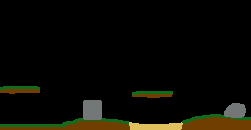
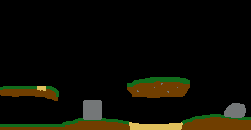
merged existing assets and added more functionality

Changed region(s): [[0.502, 0.5846, 0.7809, 0.7692], [0.0, 0.6462, 0.251, 0.7692]]

diff --git a/index.js b/index.js
@@ -8,23 +8,32 @@ class BearGame extends Phaser.Scene {
     currentPlayer;
     nextPlayerKey;
 
+    // used to initially position weapons and their facing direction relative to the player
+    isPlayerFacingLeft;
+
+    swapWeaponKey;
+    weaponListIndex;
+    weaponList;
+    currentWeapon;
+    currentWeaponKey;
+
     movementKeys;
     indicatorLine;
-    worldPointer;
     graphics;
 
-    /* Runs only once. Used to load our assets that we need for the game */
     preload() {
         this.load.image('background', 'assets/background.jpg');
-        // this.load.image('platform', 'assets/platform.png');
         this.load.image('grass-block', 'assets/terrain/grass-block.png');
         this.load.image('dirt-block', 'assets/terrain/dirt-block.png');
         this.load.image('stone-block', 'assets/terrain/stone-block.png');
         this.load.image('sand-block', 'assets/terrain/sand-block.png');
-        this.load.image('bear1', 'assets/bear.png');
-        this.load.image('projectile', 'assets/grenade.png');
 
         this.load.image('terrain-map', 'assets/terrain-map.png');
+
+        this.load.image('bear', 'assets/bear.png');
+        this.load.image('bobber-bomb', 'assets/bobber-bomb.png');
+        this.load.image('fish-gun', 'assets/fish-gun.png');
+        this.load.image('spear', 'assets/spear.png');
 
     }
 
@@ -40,8 +49,13 @@ class BearGame extends Phaser.Scene {
         this.createIndicatorLineResources();
         this.createMouseListeners();
 
+        this.swapWeaponKey = this.input.keyboard.addKey('P');
         this.nextPlayerKey = this.input.keyboard.addKey('N');
         this.movementKeys = this.input.keyboard.addKeys('W,UP,D,RIGHT,A,LEFT');
+
+        this.weaponListIndex = 0;
+        // null means you're using your BEAR hands, lol
+        this.weaponList = [null, 'bobber-bomb', 'fish-gun'];
         
         this.cameras.main.setBounds(0, 0, 1252, 646);
         this.cameras.main.startFollow(this.currentPlayer, true);
@@ -52,10 +66,15 @@ class BearGame extends Phaser.Scene {
         // console.log(`FPS: ${Math.round(game.loop.actualFps)}`);
         this.checkKeyboardInput();
         this.checkMouseInput();
+
+        // move weapon to player
+        if (this.currentWeapon) {
+            this.currentWeapon.x = this.currentPlayer.x;
+            this.currentWeapon.y = this.currentPlayer.y;
+        }
     }
 
     loadTerrainMap(terrainMapKey, terrainPixelScale, platformScale) {
-
         // load the terrain map texture 
         const texture = game.textures.get(terrainMapKey);
         const img = texture.getSourceImage();
@@ -63,13 +82,13 @@ class BearGame extends Phaser.Scene {
         const canvas = this.textures.createCanvas(null, img.width, img.height);
         canvas.draw(0, 0, img);
         
-        var set = new Set();
+        // var set = new Set();
         this.platforms = this.physics.add.staticGroup();
         for (var x = 0; x < img.width; ++x) {
             for (var y = 0; y < img.height; ++y) {
                 const pixel = canvas.getPixel(x, y);
 
-                set.add(pixel.color)
+                // set.add(pixel.color)
                 
                 var platform;
                 switch (pixel.color) {
@@ -94,7 +113,7 @@ class BearGame extends Phaser.Scene {
             }
         }
 
-        console.log(set);
+        // console.log(set);
 
         // If we applied any scaling, this will update the bodies
         this.platforms.getChildren().forEach((body) => {
@@ -111,59 +130,11 @@ class BearGame extends Phaser.Scene {
         this.physics.world.setBounds(0, 0, 1252, 646);
     }
 
-    createPlatforms() {
-        this.platforms = this.physics.add.staticGroup();
-        this.platforms.createMultiple({
-            key: 'dirt-block',
-            frameQuantity: 300,
-            setXY: { x: 0, y: 640, stepX: 5 },
-            setScale: { x: 0.025, y: 0.025 }
-            // key: 'platform',
-            // frameQuantity: 8,
-            // setXY: { x: 0, y: 645, stepX: 187 },
-            // setScale: { x: 1.2, y: 1.2 }
-        });
-
-        this.platforms.createMultiple({
-            key: 'dirt-block',
-            frameQuantity: 80,
-            setXY: { x: 520, y: 635, stepX: 5 },
-            setScale: { x: 0.025, y: 0.025 }
-            // setScale: { x: 0.9, y: 0.9 }
-        });
-
-        this.platforms.createMultiple({
-            key: 'dirt-block',
-            frameQuantity: 60,
-            setXY: { x: 540, y: 630, stepX: 5 },
-            setScale: { x: 0.025, y: 0.025 }
-            // setScale: { x: 0.9, y: 0.9 }
-        });
-
-        // this.platforms.createMultiple({
-        //     key: 'platform',
-        //     frameQuantity: 3,
-        //     setXY: { x: 300, y: 330, stepX: 330 },
-        //     // setScale: { x: 0.9, y: 0.9 }
-        // });
-
-        // this.platforms.createMultiple({
-        //     key: 'platform',
-        //     frameQuantity: 2,
-        //     setXY: { x: 500, y: 180, stepX: 330 },
-        //     // setScale: { x: 0.9, y: 0.9 }
-        // });
-
-        this.platforms.getChildren().forEach((body) => {
-            body.refreshBody();
-        });
-    }
-
     createPlayers() {
         this.players = [];
 
-        const player1 = this.physics.add.sprite(450, 400, 'bear1')
-        .setScale(0.15)
+        const player1 = this.physics.add.sprite(450, 400, 'bear')
+        .setScale(0.18)
         .refreshBody();
         player1.setBounce(0);
         player1.setCollideWorldBounds(true);
@@ -188,36 +159,72 @@ class BearGame extends Phaser.Scene {
 
         this.input.on('pointerup', pointer => {
             if (pointer.leftButtonReleased()) {
-                const throwPower = 2;
-                let projectile = this.physics.add.sprite(this.currentPlayer.x, this.currentPlayer.y, 'projectile')
-                .setScale(0.06)
-                .setVelocity(
-                    (this.input.activePointer.worldX - this.currentPlayer.x) * throwPower, 
-                    (this.input.activePointer.worldY - this.currentPlayer.y) * throwPower
-                )
-                .setMaxVelocity(400, 550)
-                .setDrag(60);
+                if (this.currentWeaponKey == 'bobber-bomb') {
+                    const throwPower = 1.5;
+                    let projectile = this.physics.add.sprite(this.currentPlayer.x, this.currentPlayer.y, 'bobber-bomb')
+                    .setScale(0.25)
+                    .setVelocity(
+                        (this.input.activePointer.worldX - this.currentPlayer.x) * throwPower, 
+                        (this.input.activePointer.worldY - this.currentPlayer.y) * throwPower
+                    )
+                    .setMaxVelocity(400, 550)
+                    .setDrag(60);
+    
+                    /* Will disable gravity entirely for the projectiles. More for bullet-style projectiles */
+                    // projectile.body.setAllowGravity(false);
+                    
+                    this.physics.add.collider(projectile, this.platforms, this.terrainExplosionCallback, this.terrainProcessCallback, this);
+                    // this.physics.add.collider(projectile, this.players);
+    
+                    const timeout_millis = 4000;
+                    setTimeout(() => {
+                        this.deleteProjectile(projectile);
+                    }, timeout_millis);
 
-                /* Will disable gravity entirely for the projectiles. More for bullet-style projectiles */
-                // projectile.body.setAllowGravity(false);
-                
-                this.physics.add.collider(projectile, this.platforms, this.terrainExplosionCallback, this.terrainProcessCallback, this);
-                // this.physics.add.collider(projectile, this.players);
-
-                const timeout_millis = 4000;
-                setTimeout(() => {
-                    this.deleteProjectile(projectile);
-                }, timeout_millis);
+                    // This is to give the illusion that we threw the bobber bomb
+                    this.currentWeapon.destroy();
+                    this.currentWeapon = null;
+                    this.currentWeaponKey = null;
+                } else if (this.currentWeaponKey == 'fish-gun') {
+                    const throwPower = 2;
+                    var bombSpawnX;
+                    var bombSpawnY;
+                    if (this.isPlayerFacingLeft) {
+                        bombSpawnX = this.currentPlayer.x - 30;
+                    } else {
+                        bombSpawnX = this.currentPlayer.x + 30;
+                    }
+                    let projectile = this.physics.add.sprite(bombSpawnX, this.currentPlayer.y, 'bobber-bomb')
+                    .setScale(0.25)
+                    .setVelocity(
+                        (this.input.activePointer.worldX - this.currentPlayer.x) * throwPower, 
+                        (this.input.activePointer.worldY - this.currentPlayer.y) * throwPower
+                    )
+                    .setMaxVelocity(400, 550)
+                    .setDrag(60);
+    
+                    /* Will disable gravity entirely for the projectiles. More for bullet-style projectiles */
+                    // projectile.body.setAllowGravity(false);
+                    
+                    this.physics.add.collider(projectile, this.platforms, this.terrainExplosionCallback, this.terrainProcessCallback, this);
+                    // this.physics.add.collider(projectile, this.players);
+    
+                    const timeout_millis = 4000;
+                    setTimeout(() => {
+                        this.deleteProjectile(projectile);
+                    }, timeout_millis);
+                }
             }
         });
     }
 
-    destroyCallback(object1, object2) {
+    destroyTerrainCallback(object1, object2) {
         object2.destroy();
     }
 
     terrainExplosionCallback(object1, object2) {
-        var invis = this.physics.add.sprite(object1.x - 34, object1.y - 44);
+        // the offset is to center the explosion on the sprite
+        var invis = this.physics.add.sprite(object1.x - 40, object1.y - 40);
         invis.setCircle(60);
         invis.setImmovable(true);
         invis.body.setAllowGravity(false);
@@ -225,7 +232,7 @@ class BearGame extends Phaser.Scene {
         // destroy grenade
         object1.destroy();
 
-        this.physics.add.collider(invis, this.platforms, this.destroyCallback, this.terrainProcessCallback, this);
+        this.physics.add.collider(invis, this.platforms, this.destroyTerrainCallback, this.terrainProcessCallback, this);
         
         /* Remove the explosion radius after 2 seconds. Should be enough time to check
         for all explosion collisions before we remove it from the scene. This is because I
@@ -248,14 +255,64 @@ class BearGame extends Phaser.Scene {
     checkKeyboardInput() {
         if (this.movementKeys.LEFT.isDown || this.movementKeys.A.isDown) {
             this.currentPlayer.setVelocityX(-160);
+            this.currentPlayer.flipX = true;
+            this.isPlayerFacingLeft = true;
+
+            if (this.currentWeaponKey == 'fish-gun')
+                this.currentWeapon.flipX = false;
+            
         } else if (this.movementKeys.RIGHT.isDown || this.movementKeys.D.isDown) {
             this.currentPlayer.setVelocityX(160);
+            this.currentPlayer.flipX = false;
+            this.isPlayerFacingLeft = false;
+
+            if (this.currentWeaponKey == 'fish-gun')
+                this.currentWeapon.flipX = true;
         } else {
             this.currentPlayer.setVelocityX(0);
         }
         
         if ((this.movementKeys.UP.isDown || this.movementKeys.W.isDown) && this.currentPlayer.body.touching.down) {
             this.currentPlayer.setVelocityY(-250);
+        }
+
+        if (Phaser.Input.Keyboard.JustDown(this.swapWeaponKey)) {
+            if (this.currentWeapon)
+                this.currentWeapon.destroy();
+
+            var nextIndex = this.weaponListIndex + 1;
+            if (nextIndex >= this.weaponList.length)
+                nextIndex = 0;
+            const nextWeaponKey = this.weaponList[nextIndex];
+            this.weaponListIndex = nextIndex;
+
+            if (nextWeaponKey) {
+                this.currentWeapon = this.physics.add.sprite(this.currentPlayer.x, this.currentPlayer.y, nextWeaponKey);
+                this.currentWeaponKey = nextWeaponKey;
+            }
+                
+
+            switch (nextWeaponKey) {
+                case 'bobber-bomb':
+                    this.currentWeapon.setScale(0.25);
+                    break;
+                case 'fish-gun':
+                    this.currentWeapon.setScale(0.2);
+                    if (!this.isPlayerFacingLeft) {
+                        this.currentWeapon.flipX = true;
+                    }
+                    break;
+                default:
+                    this.currentWeapon = null;
+                    this.currentWeaponKey = null;
+            }
+            
+            if (this.currentWeapon) {
+                this.currentWeapon.refreshBody();
+                this.currentWeapon.setImmovable(true);
+                this.currentWeapon.body.setAllowGravity(false);
+            }
+                
         }
 
         if (Phaser.Input.Keyboard.JustDown(this.nextPlayerKey)) {
@@ -280,8 +337,6 @@ class BearGame extends Phaser.Scene {
             this.graphics.clear();
         }
     }
-
-    
 
     /* FIXME: on some platforms, using graphics to strokeLineShape causes the "pixels" to jitter. Unknown how to fix */
     redrawIndicatorLine() {
